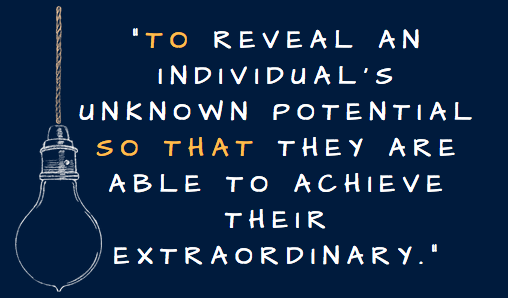
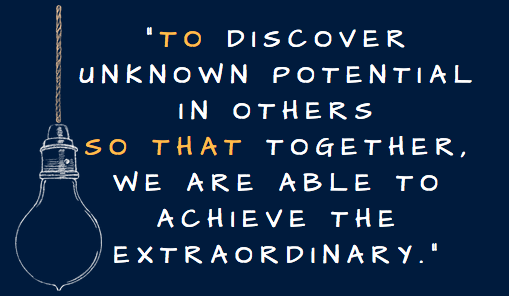
new statement

diff --git a/draft_why_statement.md b/draft_why_statement.md
@@ -70,4 +70,6 @@ Threads from my user stories as told by Steven
 
 "**TO** discover unknown potential in others **SO THAT** together, we are able to achieve the extraordinary"
 
+* This feels like more of an individual / group statement. 
+
 [![my_why_statement](www/my_why_statement.png)](https://www.canva.com/design/DADQV-QvU2o/mZaIZfrGiRgeJ4P1EMaJnw/edit)
